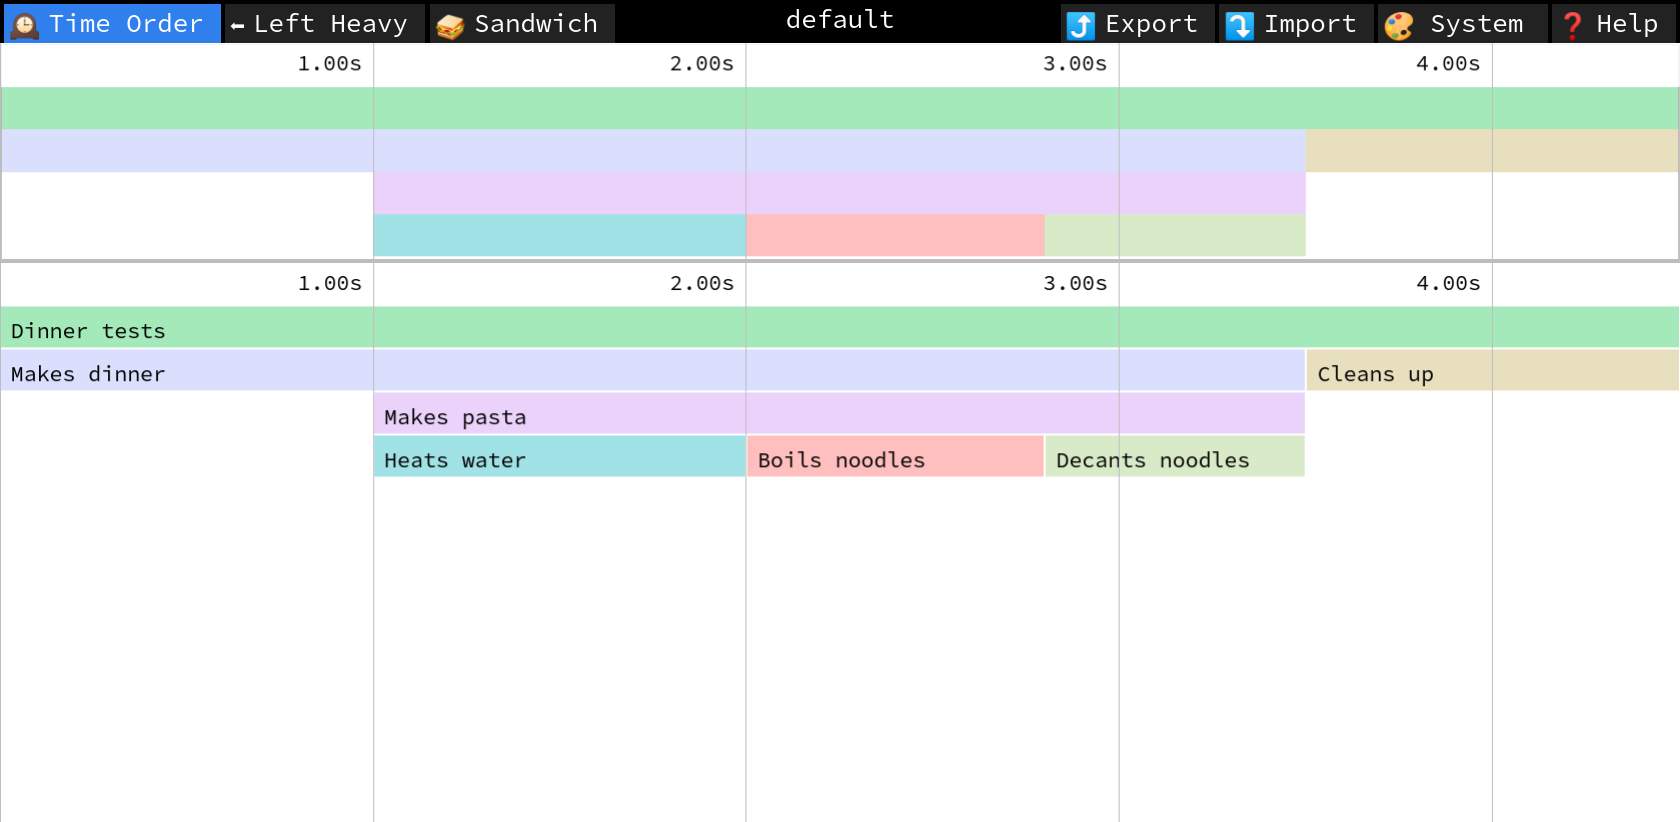
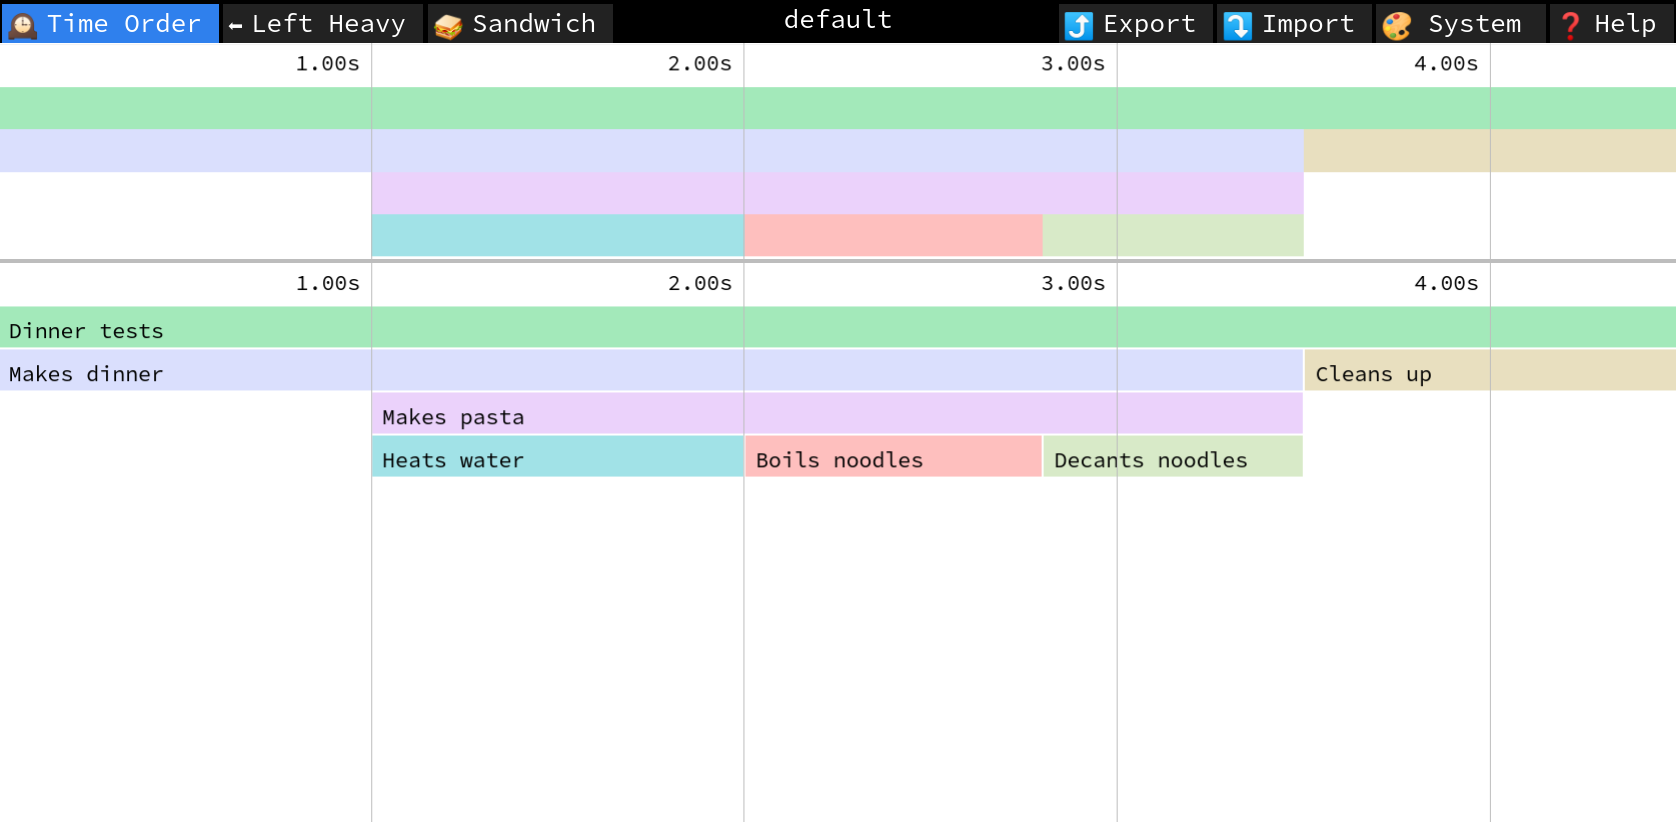
Working on docs

diff --git a/sandwich-site/sidebars.js b/sandwich-site/sidebars.js
@@ -1,6 +1,6 @@
 module.exports = {
   docs: [
-    { label: "Basics", type: "category", items: ["intro", "contexts", "node_options", "timing"] },
+    { label: "Basics", type: "category", items: ["intro", "contexts", "node_options", "timing", "discovery"] },
     { label: "Formatters", type: "category", items: ["formatters/tui", "formatters/print", "formatters/failure_report"] },
     { type: "doc", id: "extensions/sandwich-webdriver" },
     { type: "doc", id: "extensions/sandwich-slack" },

diff --git a/sandwich-site/docs/formatters/tui.md b/sandwich-site/docs/formatters/tui.md
@@ -7,7 +7,56 @@ import useBaseUrl from '@docusaurus/useBaseUrl';
 
 The terminal UI formatter is one of the key features of Sandwich. It uses the awesome [Brick](https://hackage.haskell.org/package/brick) library to make an interactive UI for running (or re-running! ) tests and inspecting their results.
 
-Most of the hotkeys are documented at the top of the UI and should be self-explanatory (see below). This page will contain some high-level comments about how it works and information about configuring it in code.
+## Usage
+
+If you're using [runSandwichWithCommandLineArgs](http://hackage.haskell.org/package/sandwich/docs/Test-Sandwich.html#v:runSandwichWithCommandLineArgs), you can simply pass `--tui` and the terminal UI formatter will be selected.
+
+If you're using the lower-level [runSandwich](http://hackage.haskell.org/package/sandwich0.1.0.3/docs/Test-Sandwich.html#v:runSandwich), simply include the formatter in the [optionsFormatters](http://hackage.haskell.org/package/sandwich/docs/Test-Sandwich-Options.html#v:optionsFormatters) of your sandwich options.
+
+```haskell
+import Test.Sandwich.Formatters.TerminalUI
+
+main :: IO ()
+main = runSandwich options myTests
+  where
+    options = defaultOptions {
+      optionsFormatters = [SomeFormatter defaultTerminalUIFormatter]
+      }
+```
+
+## About the UI
+
+Most of the hotkeys are documented at the top of the UI and should be self-explanatory. The UI shows the state of the entire test tree, with each entry color-coded by its status (not started, pending, running, failed, or succeeded). You can use the arrow keys to scroll up and down through the focused nodes.
+
+Each node of the test tree can be **opened/closed** by pressing enter or tab. Opening a node shows details about what happened when it was executed. In the picture below, the "adding one" node is opened, allowing the test failure to be examined.
+
+Each node can also be **folded/unfolded** by pressing the left and right arrows. This is like folding a tree in your file manager; if a node is folded then its children will become invisible.
+
+The tree is pruned by [visibility threshold](../node_options#visibility-thresholds). If you press the `v` button, it will cycle through different thresholds so you can show or hide the "less important" nodes.
 
 <img alt="Terminal UI" src={useBaseUrl('img/tui.png')} />
 
+One less-obvious cool feature is that the colored bar at the bottom can be clicked. If you see a red patch and click on it, the UI will jump to the failure(s) corresponding to that point in the tree.
+
+## Opening nodes in your file explorer
+
+Pressing the `o` key will open the currently focused node's [folder](../node_options#folders) in your file explorer. Pressing `O` will open the test tree's root folder.
+
+## Jumping to tests, logs, and failures in your editor
+
+If you configure your editor in the `EDITOR` environment variable, the UI can jump directly to the test, logs, or failure location corresponding to the focused node. There are a couple tricks to set this up.
+
+When invoking the `EDITOR` command, the strings `FILE`, `LINE`, and `COLUMN` will be replaced with the desired file, line number, and column number respectively. This helps you write custom commands to jump directly to the right location. If the `EDITOR` command doesn't contain the string "FILE", the filename will be appended to the end of the command.
+
+Thus, you could do
+
+* `export EDITOR="vim +LINE"`
+* `export EDITOR="vim +LINE FILE"` (same as previous)
+* `export EDITOR="emacs -nw --eval '(progn (find-file FILE) (goto-line LINE) (forward-char (- COLUMN 1)) (recenter))'"`
+  * This one recenters the view after jumping to the given location. You can put arbitrary Emacs Lisp here.
+
+## Configuration
+
+Several aspects of the UI can be configured in your test code when you introduce the formatter. For example, you can set the initial value of the [visibility threshold](http://hackage.haskell.org/package/sandwich/docs/Test-Sandwich-Formatters-TerminalUI.html#v:terminalUIVisibilityThreshold) or settings like [terminalUIShowRunTimes](http://hackage.haskell.org/package/sandwich-0.1.0.3/docs/Test-Sandwich-Formatters-TerminalUI.html#v:terminalUIShowRunTimes).
+
+You can also set a default value to use for the `EDITOR` command if the variable is not set. If you want even more control over opening editors, you can provide a custom callback which will be used instead of the default to do this.

diff --git a/sandwich-site/docs/node_options.md b/sandwich-site/docs/node_options.md
@@ -4,9 +4,7 @@ title: Node Options
 sidebar_label: Node Options
 ---
 
-## Introduction
-
-The basic functions like `describe`, `it`, etc. are aliases to lower-level functions called `describe'`, `it'`, etc. The lower-level versions accept **node options** which you can use to fine-tune how each node behaves.
+The basic functions like [describe](http://hackage.haskell.org/package/sandwich/docs/Test-Sandwich.html#v:describe), [it](http://hackage.haskell.org/package/sandwich/docs/Test-Sandwich.html#v:it), etc. are aliases to lower-level functions called [describe'](http://hackage.haskell.org/package/sandwich/docs/Test-Sandwich-Nodes.html#v:describe-39-), [it'](http://hackage.haskell.org/package/sandwich/docs/Test-Sandwich-Nodes.html#v:it-39-), etc. The lower-level versions accept [node options](http://hackage.haskell.org/package/sandwich/docs/Test-Sandwich-Nodes.html#t:NodeOptions) which you can use to fine-tune how each node behaves.
 
 ## Visibility thresholds
 
@@ -19,7 +17,7 @@ For example, consider some tests that initialize a server and a database, then r
 
 The latter makes it easier to quickly pick out which test failed.
 
-To allow this kind of filtering, every test node has a number associated with it called its *visibility threshold*. This is a number from `0` to `Infinity` representing the visual "priority" of a node. Sandwich formatters are designed so that you can set or toggle a threshold such that only nodes whose value falls under the threshold are displayed. This gives us the ability to have deeply nested and complex test trees, but prune away the complexity when desired.
+To allow this kind of filtering, every test node has a number associated with it called its *visibility threshold*. This is a number from `0` to `Infinity` representing the visual "priority" of a node. Sandwich formatters are designed so that you can set a threshold such that only nodes whose value falls under the threshold are displayed. This gives us the ability to have deeply nested and complex test trees, but prune away the complexity when desired.
 
 The default visibility thresholds for each node is as follows:
 
@@ -27,6 +25,7 @@ The default visibility thresholds for each node is as follows:
 - `50`: `describe`
 - `70`: `parallel`
 - `100`: `introduce`, `before`, `after`, `around` (and their `*each` and `*with` versions)
+- `150`: various automatically-introduced nodes, like those added for timing
 
 If you want to set *custom* visibility thresholds, you can use the primed versions of the node functions to do it. For example:
 
@@ -35,6 +34,12 @@ If you want to set *custom* visibility thresholds, you can use the primed versio
 myBefore = before' (defaultNodeOptions { nodeOptionsVisibilityThreshold = 50 })
 ```
 
-## Folder creation
+## Folders
 
-By default, every node in the test tree will get an associated folder in the [on-disk results](/docs#on-disk-results).
+By default, every node in the test tree will get an associated folder in the [on-disk results](/docs#on-disk-results). This folder is where logs and other artifacts related to the node will be stored.
+
+You can disable this by setting [nodeOptionsCreateFolder](http://hackage.haskell.org/package/sandwich/docs/Test-Sandwich-Nodes.html#v:nodeOptionsCreateFolder) to `False`.
+
+## Timing
+
+By default, every node in the test tree will be timed using the configured test timer. To turn this off for an individual node, you can set [nodeOptionsRecordTime](http://hackage.haskell.org/package/sandwich/docs/Test-Sandwich-Nodes.html#v:nodeOptionsRecordTime) to `False`. (Most often, you would want to do this if you're working with parallel tests and want to prevent a racy node from recording a stack frame in the test timings.)

diff --git a/sandwich-site/docs/extensions/sandwich-slack.md b/sandwich-site/docs/extensions/sandwich-slack.md
@@ -7,6 +7,13 @@ import useBaseUrl from '@docusaurus/useBaseUrl';
 
 The [Slack formatter](http://hackage.haskell.org/package/sandwich-slack) allows you to send live test results to a Slack channel. It shows the overall progress through the tests as a progress bar, and also shows failures as they occur.
 
+When applied to the arithmetic example from the landing page, it looks like this:
+
+<img alt="Simple timing example" src={useBaseUrl('img/slack.gif')} />
+
+
+## Usage
+
 To enable it, add `sandwich-slack` to your project and add the formatter to the [optionsFormatters](http://hackage.haskell.org/package/sandwich/docs/Test-Sandwich-Options.html#v:optionsFormatters) of your Sandwich options.
 
 ```haskell
@@ -23,13 +30,9 @@ main = runSandwich options myTests
       }
 ```
 
-If you're using the [runSandwichWithCommandLineArgs](http://hackage.haskell.org/package/sandwich/docs/Test-Sandwich.html#v:runSandwichWithCommandLineArgs) family of functions, you can also control the Slack formatter settings using command line args. For example, you can pass `--slack-token $SLACK_TOKEN`, which makes it easy to inject a token from a secret within your CI system. Pass `--print-slack-flags` to see all the command line options.
+If you're using [runSandwichWithCommandLineArgs](http://hackage.haskell.org/package/sandwich/docs/Test-Sandwich.html#v:runSandwichWithCommandLineArgs), you can control the Slack formatter settings using command line args. For example, you can pass `--slack-token $SLACK_TOKEN`, which makes it easy to inject a token from a secret within your CI system. Pass `--print-slack-flags` to see all the command line options.
 
 > Note that you need to set up a Slack token first. Nowadays this is done by creating a [Slack App](https://api.slack.com/apps). Make sure your app has "bot" permissions to interact in channels, and permission to make Slack API requests. To allow your app to send messages to a private channel, you'll want to add the app to the channel by typing `/invite app-name` in the channel.
-
-When applied to the arithmetic example from the landing page, you get a live-updating message like this:
-
-<img alt="Simple timing example" src={useBaseUrl('img/slack.gif')} />
 
 ## Customizing the message
 

diff --git a/sandwich-site/docs/timing.md b/sandwich-site/docs/timing.md
@@ -17,7 +17,7 @@ You can select a test timer implementation you use in the Sandwich options. The 
 
 The simplest use of timing occurs when we don't have any `parallel` stuff going on, so the tests all run in a single thread. To deal with multiple threads, see the [concurrency](#dealing-with-concurrency) section.
 
-First of all, **every node in the test tree is timed by default**. Thus, the "describe" and "it" nodes in the example below will be timed automatically. You can prevent this by changing the [node options](/docs/node_options).
+First of all, **every node in the test tree is timed by default**. Thus, the "describe" and "it" nodes in the example below will be timed automatically. You can prevent this by changing the [node options](/docs/node_options#timing).
 
 In addition, you can time arbitrary blocks of code using the `timeAction` function. This function is a `bracket_` style combinator that can be used to wrap an action. In the example below, we use it to wrap some sub-steps within a test.
 
@@ -37,7 +37,8 @@ timingDemo = describe "Dinner tests" $ do
 
 When you run this code using the default implementation, it will output a file `speedscope.json` in the root of the test results. If you drag and drop this file onto SpeedScope, you get a picture like the following. Note that the profile (in the center of the top bar) is "default." In the next section we'll explore using multiple threads (and thus multiple profiles).
 
-<img alt="Simple timing example" src={useBaseUrl('img/dinner_timing.png')} />
+<img alt="Simple timing example" src={useBaseUrl('img/dinner_timing.png')}
+                                 style={{border: "solid 1px lightgray"}} />
 
 
 ## Dealing with concurrency

diff --git a/sandwich-site/docs/discovery.md b/sandwich-site/docs/discovery.md
@@ -1,0 +1,9 @@
+---
+id: discovery
+title: Test Discovery
+sidebar_label: Discovery
+---
+
+import useBaseUrl from '@docusaurus/useBaseUrl';
+
+Test discovery...
